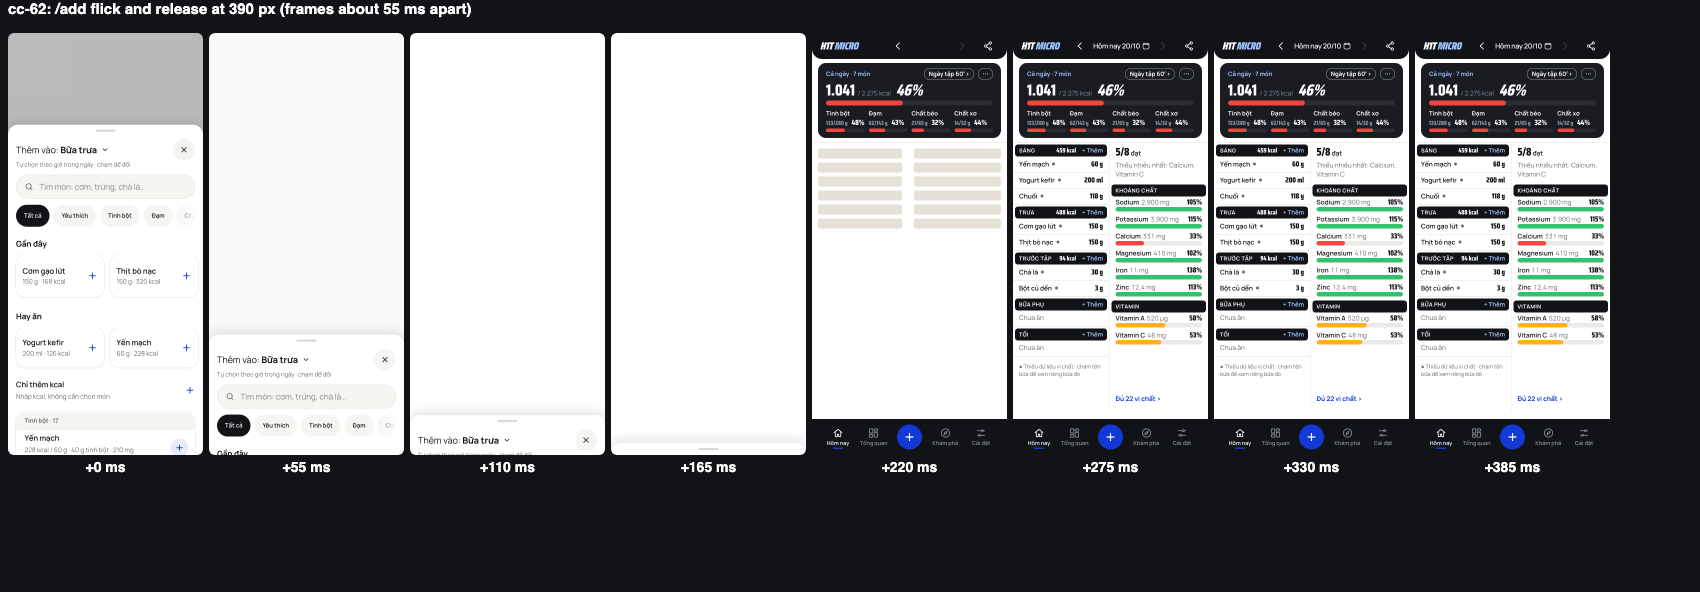
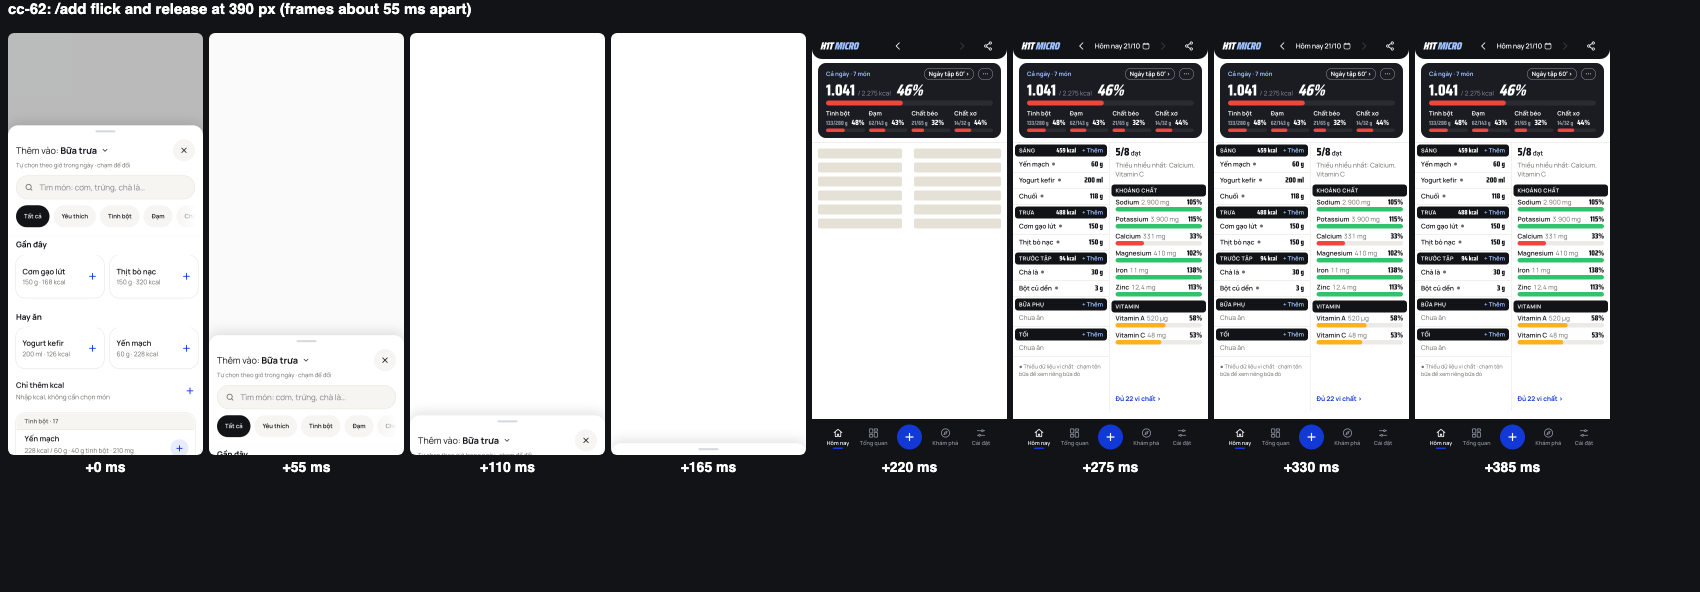
fluid-add: probes at full strength, add_from_tabs and route-size helper; review fixes in the PR note

diff --git a/apps/web/tests/probes/add_from_tabs.py b/apps/web/tests/probes/add_from_tabs.py
@@ -7,6 +7,9 @@
 3  `?meal=` is honoured: /add?meal=dinner names Bữa tối, from the link and from the sheet over a tab.
 4  Android back during the slide: the sheet closes once, the URL is the tab's, nothing is inert.
 5  Two taps on the add in the same frame add one entry, not two.
+7  The phone sheet's own behaviours (ported from PR #29's /add edits): the page behind is locked (counted with the portion sheet's lock),
+   the panel lifts above the keyboard by the `translate` property (never `transform`), the search field is focused once after the slide
+   (at once under reduced motion, not at all after a touch on the panel), and one letter waits 120 ms before the list follows it.
 6  The day under the sheet does not flip: Hôm nay on an older day, + (which carries no date for a read-only day) → the day stays.
 Run with: ALIGN_BASE_URL=http://localhost:3101 npm run probe -- tests/probes/add_from_tabs.py
 """
@@ -209,6 +212,82 @@ def main():
         pg.wait_for_timeout(1500)
         heads = pg.evaluate("window.__stopHeads = true; [...window.__heads]")
         check(len([h for h in heads if h]) == 1, f"the day under the sheet does not flip while it opens and closes ({heads})")
+        ctx.close()
+
+        # ---- 7: PR #29's behaviours in the sheet
+        FAKE_VV = """
+        (() => {
+          const t = new EventTarget();
+          Object.assign(t, { height: window.innerHeight, offsetTop: 0, width: window.innerWidth, offsetLeft: 0, scale: 1 });
+          Object.defineProperty(window, 'visualViewport', { value: t, configurable: true });
+          window.__vv = t;
+        })();
+        """
+        ctx = new_context(browser)
+        ctx.add_init_script(FAKE_VV)
+        pg = ctx.new_page()
+        open_tab(pg, "/app")
+        overflow_before = pg.evaluate("document.body.style.overflow")
+        pg.locator("#mobile-add-fab").tap()
+        pg.locator("[data-add-panel] [data-testid=food-search]").first.wait_for(state="visible", timeout=8000)
+        pg.wait_for_timeout(900)
+        check(pg.evaluate("document.body.style.overflow") == "hidden", "the phone sheet locks the page behind it")
+        focused = pg.evaluate("document.activeElement && document.activeElement.getAttribute('data-testid')")
+        check(focused == "food-search", f"the search field has focus once the slide is over ({focused})")
+        # the keyboard: the panel lifts by the `translate` property, `transform` stays the drag's
+        pg.evaluate("window.__vv.height = window.innerHeight - 300; window.__vv.dispatchEvent(new Event('resize'))")
+        pg.wait_for_timeout(100)
+        lift = pg.evaluate("(() => { const p = document.querySelector('[data-add-panel]'); return { translate: p.style.translate, transform: p.style.transform, m42: new DOMMatrix(getComputedStyle(p).transform).m42 }; })()")
+        check("-300px" in lift["translate"] and lift["transform"] == "" and lift["m42"] == 0, f"the keyboard lifts the panel with `translate` and leaves `transform` alone ({lift})")
+        pg.evaluate("window.__vv.height = window.innerHeight; window.__vv.dispatchEvent(new Event('resize'))")
+        pg.wait_for_timeout(100)
+        check(pg.evaluate("document.querySelector('[data-add-panel]').style.translate") == "", "…and puts it back when the keyboard goes")
+        # one letter waits, two do not
+        search = pg.locator("[data-add-panel] [data-testid=food-search]").first
+        rows = lambda: pg.locator("[data-add-panel] button[data-food-row]:visible").count()
+        before_rows = rows()
+        search.fill("c")
+        pg.wait_for_timeout(40)
+        early = rows()
+        pg.wait_for_timeout(500)
+        late = rows()
+        check(early == before_rows and late != before_rows, f"one letter: the list waits ~120 ms before it follows ({before_rows} → {early} → {late})")
+        search.fill("")
+        pg.wait_for_timeout(300)
+        # the portion sheet over it: still locked when it closes, free once both are gone
+        search.fill("trứng")
+        pg.locator("[data-add-panel] button[data-food-row]:visible").first.wait_for(state="visible", timeout=6000)
+        pg.locator("[data-add-panel] button[data-food-row]:visible").first.tap()
+        pg.locator('[data-testid="portion-add"]:visible').first.wait_for(state="visible", timeout=6000)
+        pg.wait_for_timeout(500)
+        pg.keyboard.press("Escape")
+        pg.wait_for_timeout(700)
+        check(pg.evaluate("document.body.style.overflow") == "hidden", "the portion sheet closes first: the page stays locked under the add sheet")
+        close_x(pg)
+        pg.wait_for_timeout(1200)
+        check(pg.evaluate("document.body.style.overflow") == overflow_before, f"both gone: the page scrolls again ({pg.evaluate('document.body.style.overflow')!r} vs {overflow_before!r})")
+        ctx.close()
+        # a touch on the panel during the slide: focus is not taken afterwards
+        ctx = new_context(browser)
+        pg = ctx.new_page()
+        open_tab(pg, "/app")
+        pg.locator("#mobile-add-fab").tap()
+        pg.locator("[data-add-panel]").first.wait_for(state="attached", timeout=8000)
+        pg.evaluate("document.querySelector('[data-add-panel]').dispatchEvent(new PointerEvent('pointerdown', { bubbles: true }))")
+        pg.wait_for_timeout(1300)
+        focused = pg.evaluate("document.activeElement && document.activeElement.getAttribute('data-testid')")
+        check(focused != "food-search", f"a touch on the panel during the slide: the search field is not focused afterwards ({focused})")
+        ctx.close()
+        # reduced motion: at once
+        ctx = browser.new_context(**PHONE, reduced_motion="reduce")
+        ctx.add_init_script("try { localStorage.setItem('h1t_settings_v1_demo', %r) } catch (e) {}" % json.dumps(SEED))
+        pg = ctx.new_page()
+        open_tab(pg, "/app")
+        pg.locator("#mobile-add-fab").tap()
+        pg.locator("[data-add-panel] [data-testid=food-search]").first.wait_for(state="visible", timeout=8000)
+        pg.wait_for_timeout(120)
+        focused = pg.evaluate("document.activeElement && document.activeElement.getAttribute('data-testid')")
+        check(focused == "food-search", f"reduced motion: the search field is focused at once ({focused})")
         ctx.close()
 
         browser.close()

diff --git a/apps/web/tests/probes/fluid_add.py b/apps/web/tests/probes/fluid_add.py
@@ -324,15 +324,26 @@ def main():
         rowbox.scroll_into_view_if_needed()
         b = rowbox.bounding_box()
         cdp.send("Input.dispatchTouchEvent", {"type": "touchStart", "touchPoints": [{"x": b["x"] + b["width"] / 2, "y": b["y"] + b["height"] / 2}]})
-        pg.wait_for_timeout(120)
-        early = rowbox.evaluate("el => [el.dataset.touchDrag, parseFloat(getComputedStyle(el, '::after').opacity)]")
-        pg.wait_for_timeout(250)
-        mid = rowbox.evaluate("el => parseFloat(getComputedStyle(el, '::after').opacity)")
-        pg.wait_for_timeout(450)
+        # Sampled in the page every frame while the finger rests: while the row is "pressing" the tint rises step after step
+        # (strictly more than once, and by a visible amount), it does not sit at one value; then the row lifts
+        series = rowbox.evaluate(
+            """el => new Promise((resolve) => {
+              const out = [];
+              const t0 = performance.now();
+              const tick = () => {
+                out.push([Math.round(performance.now() - t0), el.dataset.touchDrag || '', parseFloat(getComputedStyle(el, '::after').opacity)]);
+                if (performance.now() - t0 < 900) requestAnimationFrame(tick); else resolve(out);
+              };
+              tick();
+            })"""
+        )
         lifted = rowbox.evaluate("el => [el.dataset.touchDrag, getComputedStyle(el).transform]")
         cdp.send("Input.dispatchTouchEvent", {"type": "touchCancel", "touchPoints": []})
-        # Under load a step can take longer than it should: the tint may already be at its deepest ("lifted") at the second look
-        check(early[0] in ("pressing", "lifted") and 0 < early[1] <= mid <= 1, f"the hold: the tint deepens while the finger rests ({early[1]:.2f} → {mid:.2f})")
+        pressing = [o for _, st, o in series if st == "pressing"]
+        distinct = sorted(set(round(o, 2) for o in pressing))
+        rising = all(b2 >= a2 - 0.001 for a2, b2 in zip(pressing, pressing[1:]))
+        check(len(pressing) >= 4 and rising and len(distinct) >= 4 and pressing[-1] - pressing[0] >= 0.3 and pressing[0] < 0.5,
+              f"the hold: the tint deepens step by step while the finger rests ({len(pressing)} frames, {len(distinct)} values, {pressing[0] if pressing else None:.2f} → {pressing[-1] if pressing else None:.2f})")
         check(lifted[0] == "lifted" and lifted[1] != "none", f"…then the row lifts ({lifted})")
         ctx.close()
 

diff --git a/apps/web/tests/probes/cc_49.py b/apps/web/tests/probes/cc_49.py
@@ -352,7 +352,13 @@ with sync_playwright() as p:
         ctx, pg, st = device(browser, api)
         open_today(pg)
         api.script["POST"] = [400]
-        add_food(pg, "Yến mạch cán")
+        # Every frame from just before the add: the route and the add sheet's state. The report below may name /add only while the sheet
+        # is visibly closing (the page was opened straight on /add here, so the sampler goes in once it is loaded)
+        sampler = lambda: pg.evaluate(
+            "window.__sheetLog = []; const tick = () => { const p = document.querySelector('[data-add-panel], [role=dialog][data-sheet-route]');"
+            " window.__sheetLog.push([location.pathname, p ? p.dataset.state || '' : null]); requestAnimationFrame(tick); }; tick();"
+        )
+        add_food(pg, "Yến mạch cán", before_add=sampler)
         check(row_of(pg, "Yến mạch cán").count() == 1, "4: POST 400: the entry stays on Hôm nay")
         check(pg.locator("[data-unsaved]:visible").count() == 1, "4: …marked Chưa lưu")
         toast = pg.get_by_text("Chưa lưu được món", exact=False)
@@ -371,6 +377,12 @@ with sync_playwright() as p:
             and re.fullmatch(r"\d{4}-\d{2}-\d{2}\.\d+", writes[0].get("version", "")) is not None,
             f"4: one client error report: write 400 (its status and error code only: the scripted body has none), /days/…/entries, route /add or /app (the page when the answer came), app version ({writes})",
         )
+        # …and /add only while the sheet slid away: a sample at /add with the sheet closed, never the sheet open or still there at the end
+        log = pg.evaluate("window.__sheetLog")
+        closing = [e for e in log if e[0] == "/add" and e[1] == "closed"]
+        if writes and writes[0].get("route") == "/add":
+            check(len(closing) > 0, "4: the report named /add: the sheet was closing then (data-state closed)")
+        check(pg.locator("[data-add-panel]").count() == 0 and pg.evaluate("location.pathname") == "/app", "4: afterwards the sheet is gone and the page is Hôm nay")
         if retry.count():
             retry.first.click()
         ok = wait_until(lambda: on_server(api, "Yến mạch cán"), 10, pg=pg)

diff --git a/apps/web/tests/probes/cc_62_sheet.py b/apps/web/tests/probes/cc_62_sheet.py
@@ -105,9 +105,20 @@ def check_add_panel(browser):
     opacity = pg.evaluate("() => getComputedStyle(document.querySelector('.m-scrim')).opacity")
     check(float(opacity) < 1, f"/add: the scrim fades with the drag (opacity {opacity})")
     f.up()
+    # The release is one Web Animations API animation on the panel, started in the pointerup: a spring sampled into linear(), from the
+    # finger's offset back to 0, a few hundred ms
+    anim = pg.evaluate(
+        "(sel) => { const a = document.querySelector(sel).getAnimations().find((x) => x.effect && x.effect.getKeyframes().some((k) => k.transform && k.transform !== 'none'));"
+        " if (!a) return null; const t = a.effect.getTiming(); const k = a.effect.getKeyframes(); return { easing: t.easing, duration: t.duration, fill: t.fill, from: k[0].transform, to: k[k.length - 1].transform }; }",
+        PANEL,
+    )
+    check(anim is not None and anim["easing"].startswith("linear(") and 100 <= anim["duration"] <= 400 and anim["fill"] == "forwards" and anim["to"] == "translateY(0px)",
+          f"/add: the release is one WAAPI animation back to 0 (linear() spring, {anim})")
     pg.wait_for_timeout(900)
     check("/add" in pg.url and state(pg, PANEL) == "open", "/add: a slow 60 px drag stays open")
-    check(not any("sheet-spring" in u for u in requests), "/add: and none after it (the release is a WAAPI animation, nothing to load)")
+    left = pg.evaluate("(sel) => document.querySelector(sel).getAnimations().filter((x) => x.effect && x.effect.getKeyframes().some((k) => k.transform && k.transform !== 'none')).length", PANEL)
+    check(left == 0, f"/add: and the animation is cancelled once it has settled (the sheet's own style holds the position; {left} left)")
+    check(not any("sheet-spring" in u or "motion" in u for u in requests), "/add: no spring chunk was loaded for it")
 
     # Down 250 px slowly, then a quick flick back up: stays open
     f.down(x, y)

diff --git a/apps/web/tests/probes/_route_js.py b/apps/web/tests/probes/_route_js.py
@@ -1,0 +1,43 @@
+"""The JS a route loads on a cold visit (390 x 844 phone, demo build): requests and gzip bytes until the network is idle, per route.
+Next 16's webpack build prints no First Load JS column, so this is the route table for a PR note. Not a probe (probe:all skips names that start with _).
+Run with: ALIGN_BASE_URL=http://localhost:3123 python3 tests/probes/_route_js.py
+"""
+import gzip
+import os
+import sys
+
+from playwright.sync_api import sync_playwright
+
+sys.path.insert(0, os.path.dirname(os.path.abspath(__file__)))
+import _demo  # noqa: E402,F401
+
+BASE = os.environ.get("ALIGN_BASE_URL", "http://localhost:3100")
+ROUTES = ["/app", "/add", "/explore"]
+
+
+def main():
+    with sync_playwright() as p:
+        browser = p.chromium.launch()
+        for route in ROUTES:
+            ctx = browser.new_context(viewport={"width": 390, "height": 844}, is_mobile=True, has_touch=True)
+            ctx.add_init_script("try { localStorage.setItem('h1t_onboarding_off', '1'); localStorage.setItem('h1t_whats_new_off', '1') } catch (e) {}")
+            pg = ctx.new_page()
+            sizes = {}
+
+            def on_response(r):
+                if r.request.resource_type == "script":
+                    try:
+                        sizes[r.url] = len(gzip.compress(r.body(), 6))
+                    except Exception:
+                        pass
+
+            pg.on("response", on_response)
+            pg.goto(BASE + route, wait_until="networkidle")
+            pg.wait_for_timeout(1500)
+            total = sum(sizes.values())
+            print(f"{route:10s} {len(sizes):3d} scripts  {total / 1024:7.1f} kB gzip")
+            ctx.close()
+        browser.close()
+
+
+main()

diff --git a/docs/pr/feat-fluid-add.md b/docs/pr/feat-fluid-add.md
@@ -125,6 +125,32 @@ Filmstrips (frames from just before the tap, each labelled with ms since it; a f
 | snap: frames with no movement after the release | 0 | 0 | 0 | 0 |
 
 
+## Review fixes (21/10, after Hao's review)
+
+| # | What | Where |
+|---|---|---|
+| 1 | **Stuck sheet after an add from another tab.** `router.replace("/app")` from Khám phá, Tổng quan or Cài đặt left the sheet's slot as it was (Next keeps a parallel slot's state on a soft navigation when the new URL matches none of its pages): the panel stayed mounted, closed, with `[data-app-frame]` inert, so the app took no taps. The slot now has a page that draws nothing for each tab (`@sheet/app`, `explore`, `trends`, `settings`). A `[...catchAll]` would do it in one file, but the build refuses it ("Every page must be part of at least one complete route": strict route matching leaves `/add` without a canonical route). Probe `add_from_tabs.py`: from the three tabs, tray add, one-tap add and ✕, then a reload on /add and an add; it failed before the fix (a nav tap was intercepted by the body) and passes after. | `app/(app)/(tabs)/@sheet/{app,explore,trends,settings}/page.tsx`, `default.tsx` |
+| 2 | **PR #29's /add behaviours, ported into `add-screen.tsx`** (see the note for Dong below): the page behind the phone sheet is locked, counted (`lib/body-scroll-lock.ts`, the Sheet uses it too, so the portion sheet closing first no longer gives the page its scroll back under the add sheet); the panel lifts above the keyboard from `visualViewport` (resize and scroll) with the `translate` property, never `transform` (the drag and the release own it); the search field is focused once after the slide (a done flag, nothing if the panel was touched during the slide, at once under reduced motion, listeners and timer cleared); a first letter waits 120 ms before the list follows it, two letters or more do not (`hooks/use-food-browse.ts`). | `components/add/add-screen.tsx`, `components/ui/sheet.tsx`, `lib/body-scroll-lock.ts`, `hooks/use-food-browse.ts` |
+| 3 | **The day under the sheet no longer flips.** Hôm nay read `date` from the live address, so an opener that carries none (older days: the meal's + Thêm, the first-run, the desktop intro, a read-only day) flipped the day to today under the sheet and back. The day is read only while the pathname is /app. The probe fails without the fix (the header went "Chủ nhật 18/10" → "Hôm nay 21/10"). | `components/home/home-screen.tsx` |
+| 4 | **Double add.** Every add function returns at once when the sheet is already closing; the portion sheet's Thêm also takes the add lock before its first await (two clicks in one frame added two entries: 7 → 9 before the fix, 7 → 8 after). | `components/add/add-screen.tsx` |
+| 5 | **Probes at full strength again.** `fluid_add.py` samples the hold tint every frame (rising, at least four values, from under 0.5 by at least 0.3) instead of accepting a tint stuck at 1; `cc_62_sheet.py` checks the WAAPI release for real (one animation on the panel, `linear()` easing, 100–400 ms, back to `translateY(0px)`, cancelled once settled) instead of "no chunk was fetched"; `cc_49.py` part 4 (live build, by hand) accepts the report's `/add` only when the sheet was closing then, and the sheet is gone after. New: `add_from_tabs.py` (item 1, `?meal=` from the link and from the sheet over Hôm nay, Android back during the slide, the rapid double add, the day under the sheet, and item 2's scroll lock, keyboard lift, focus and debounce). | `tests/probes/` |
+| 6 | **Lazy sheets.** The nine closed sheets are mounted in `startTransition`, and the chunks are no longer fetched from the touch on the + (the next touch or the idle moment loads them, and only while Hôm nay is the page). Not done: Calendar, CopyYesterday and Sources still read the diary context while closed: a closed Sheet returns null, so each re-render costs nothing, and avoiding it means splitting their title and description out of the Sheet props. | `components/home/home-screen.tsx` |
+| 7 | `.m-sheet[data-state="closed"] *` is gone: pointer-events inherits from the sheet; the drag-handle exception stays (`[data-sheet-drag]`). `motion.test.ts` checks there is no universal selector. | `app/globals.css` |
+| 8 | **Render cost.** `listPick` is memoised (the callbacks read the latest handlers through a ref), the empty state and the create-food link too, and `FoodList` is `React.memo`: a keystroke in the grams field does not redraw the rows; the query stays urgent and the list deferred. | `components/add/add-screen.tsx`, `components/foods/food-list.tsx` |
+| 9 | The unused `motion` dependency is gone (`package.json` and the lockfile: `motion`, `framer-motion`, `motion-dom`, `motion-utils`; nothing imports it). | `package.json`, `package-lock.json` |
+
+**Route table.** Next 16's webpack build prints no First Load JS column, so `tests/probes/_route_js.py` loads each route cold (390 px phone, demo build) and adds up the gzip size of every script until the network is idle:
+
+| Route | origin/main | feat/fluid-add |
+|---|---|---|
+| /app | 55 scripts, 400.4 kB | 55 scripts, 401.4 kB |
+| /add (opened straight) | 46 scripts, 376.5 kB | 28 scripts, 267.6 kB |
+| /explore | 45 scripts, 366.5 kB | 45 scripts, 368.6 kB |
+
+/app and /explore carry about 1–2 kB more (the slot and the sheet's code in the tab frame); /add opened straight loads about 109 kB less (no `motion` chunk, and the sheet code no longer sits in the page twice).
+
+**For Dong (PR #29, `feat/ui-ag-18`).** The edits #29 makes to `app/(app)/add/page.tsx` (scroll lock, keyboard lift, focus after the slide, the 1-letter debounce) are in `components/add/add-screen.tsx` and `hooks/use-food-browse.ts` here, where the page's code moved. When you merge main into #29, take main's version of those add files (the page is now a two-line wrapper); the rest of #29 (search.ts, api-client, scripts) does not touch them.
+
 ## Routing and back-button behaviour (changed)
 
 - **`/add` from a tab** (the + of the nav, a meal's + Thêm, the sidebar button): the URL is still `/add` (or `/add?meal=…&date=…`), but
